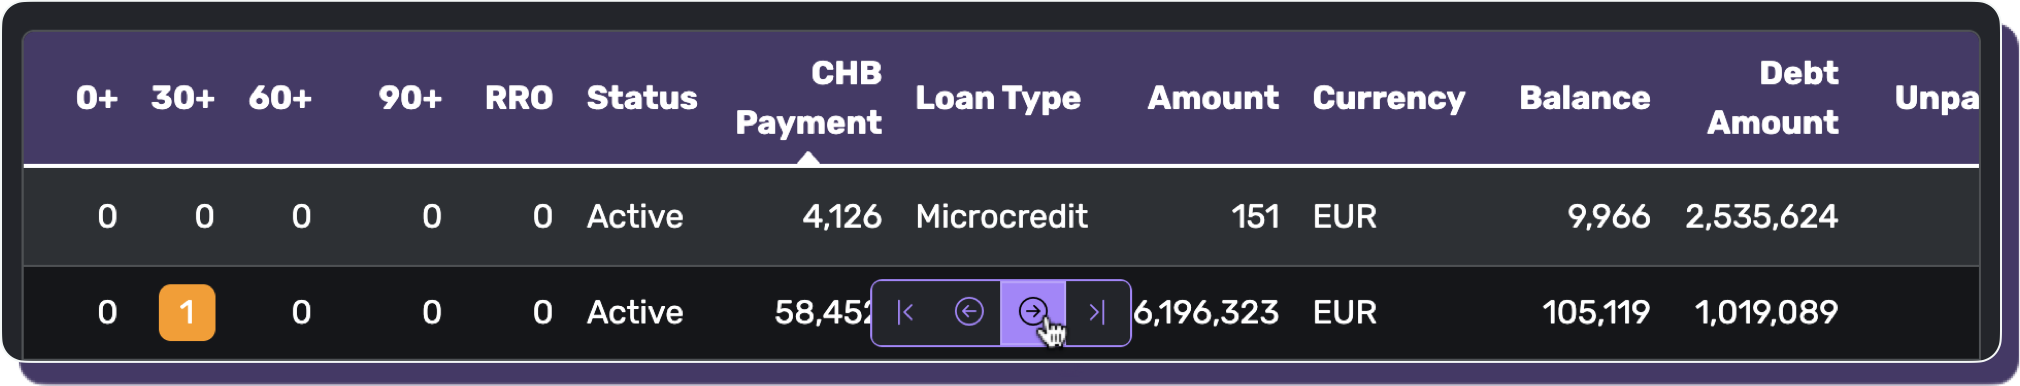
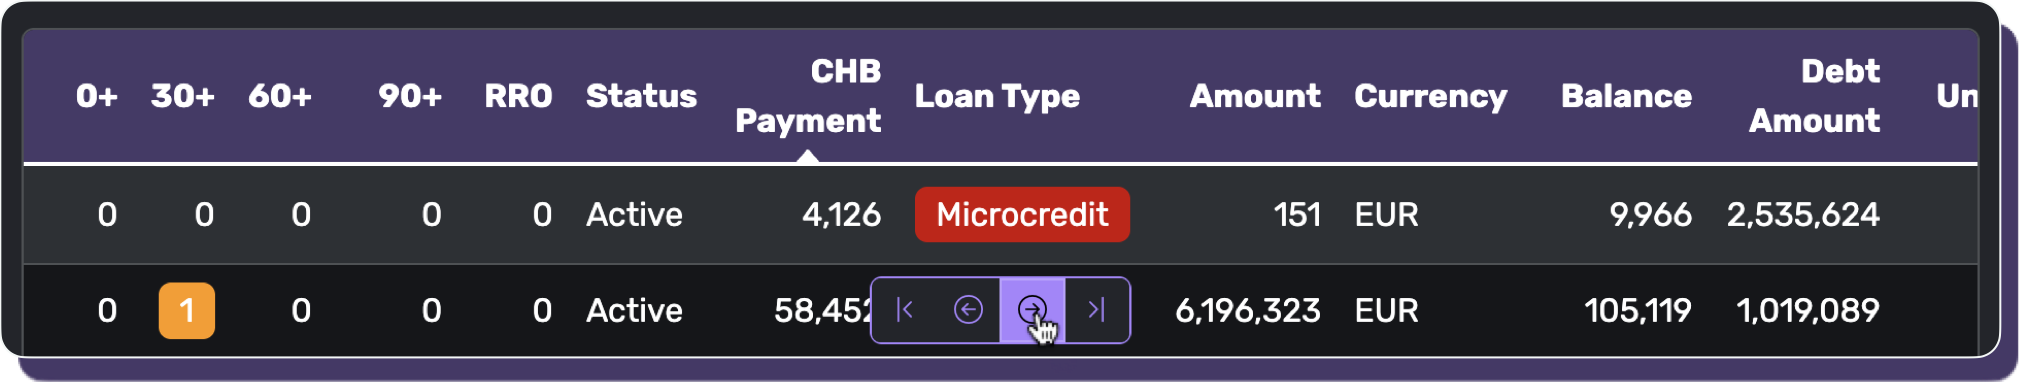
DEV-133 Highlighting microcredits

diff --git a/src/components/CreditHistory/utils.ts b/src/components/CreditHistory/utils.ts
@@ -187,7 +187,7 @@ export const tableColumns: TableColumn[] = [
     },
     {
         alignment: "text-start",
-        badgeEqual: "Микрокредит",
+        badgeEqual: "Microcredit",
         badgeType: "E",
         dataType: "text",
         sortable: true,
